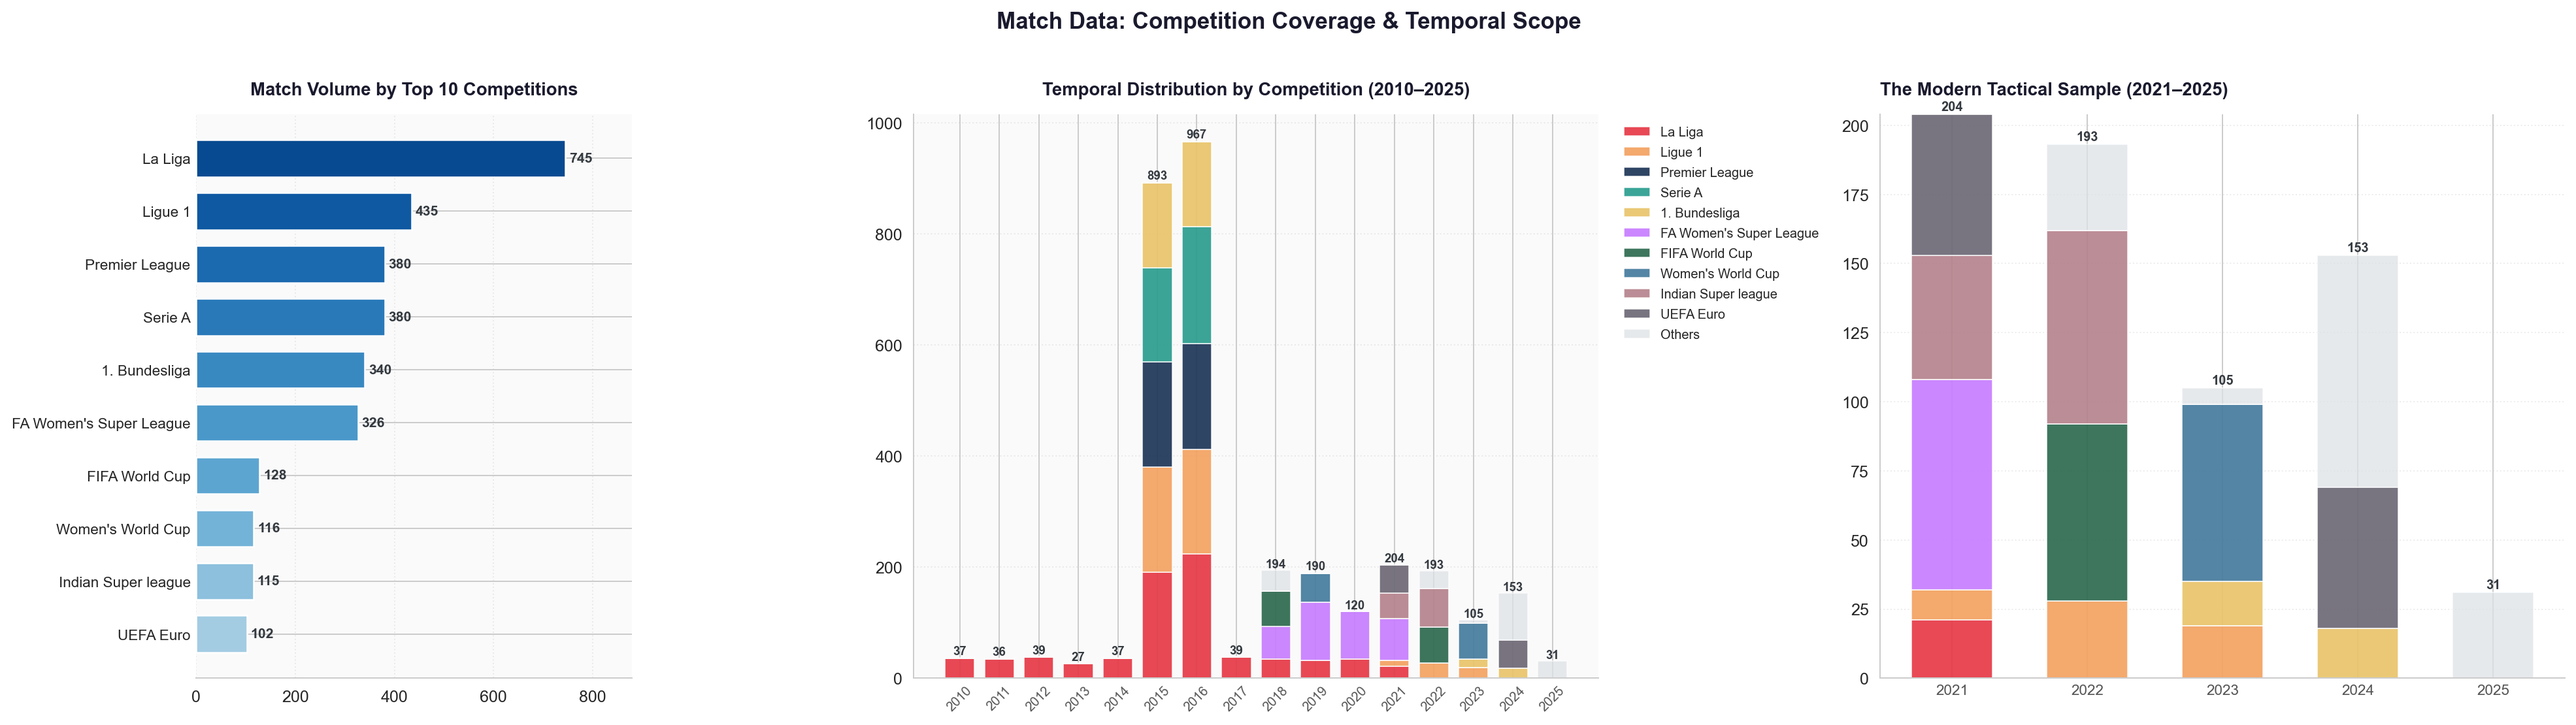
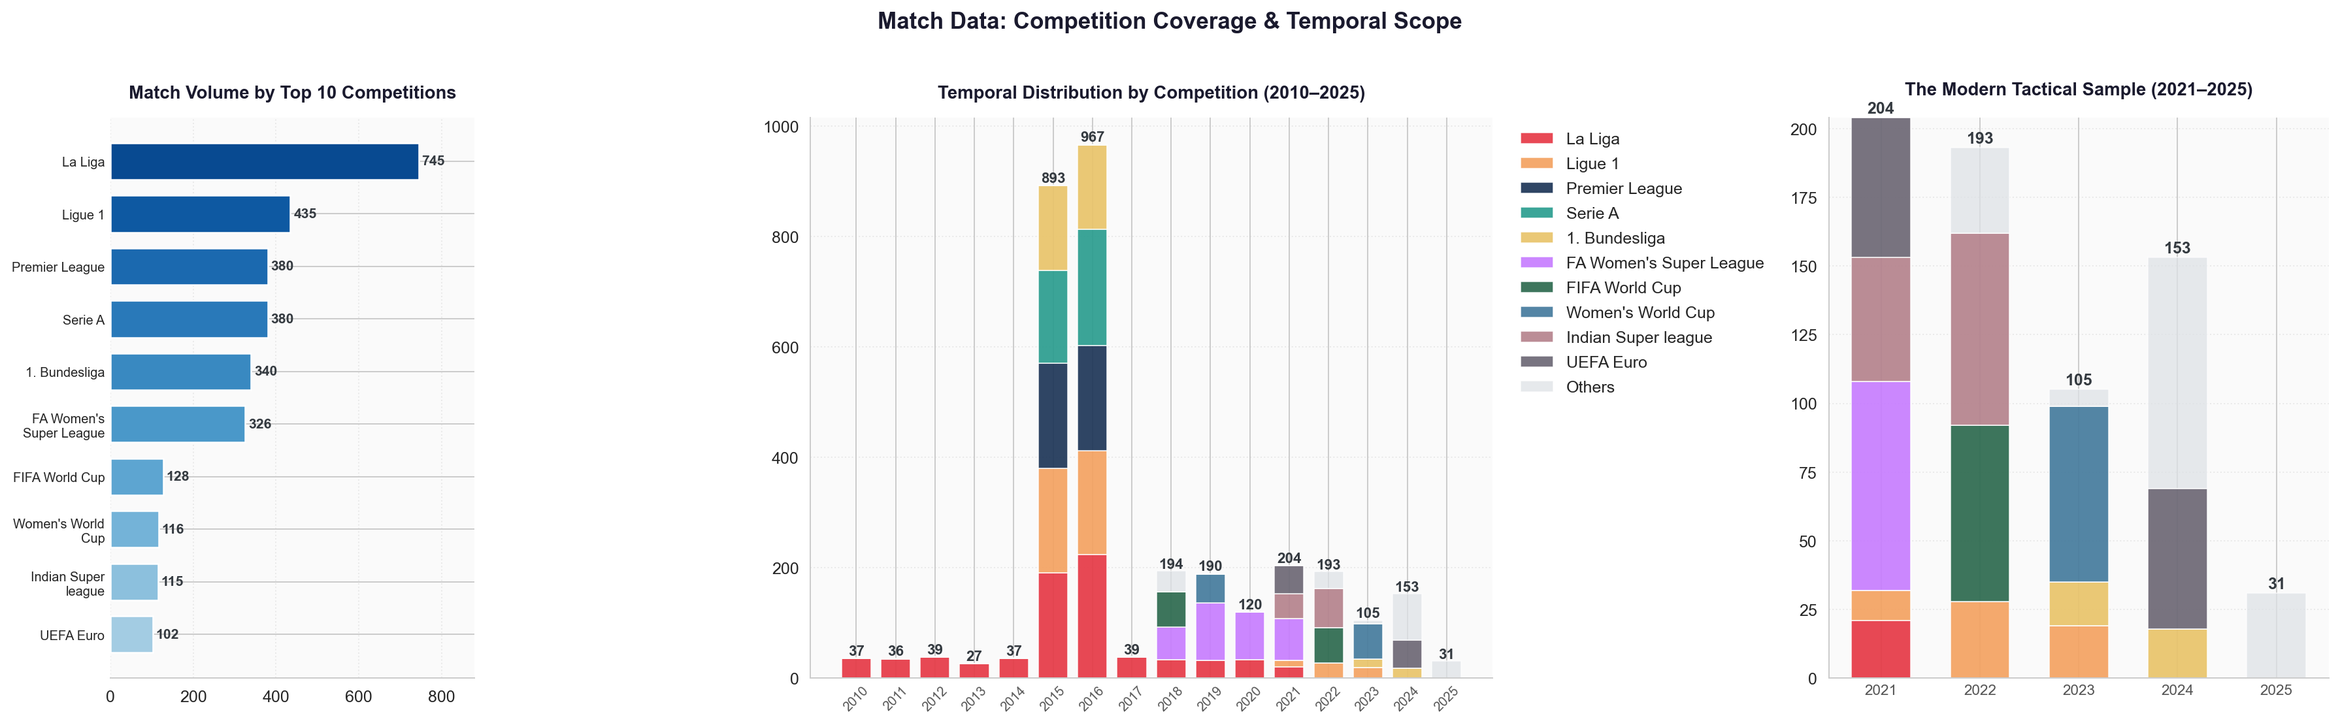
adding case study for lineups

diff --git a/eda/analysis/eda_functions.py b/eda/analysis/eda_functions.py
@@ -17,6 +17,7 @@ from IPython.display import clear_output
 
 from IPython.display import display
 import pandas as pd
+import matplotlib.gridspec as gridspec
 
 # Set plotting style
 sns.set_style('whitegrid')
@@ -192,12 +193,6 @@ def plot_matches_market_overview(statsbomb_dir: Path, figsize=(15, 5)) -> None:
     plt.tight_layout()
     plt.show()
 
-import polars as pl
-import numpy as np
-import matplotlib.pyplot as plt
-from pathlib import Path
-
-
 # Sophisticated palette — perceptually distinct, matched to known competition names
 COMP_PALETTE = {
     'La Liga':                  '#e63946',
@@ -227,7 +222,7 @@ def gradient_barh(ax, y, width, height, cmap_name='Blues'):
         )
 
 
-def plot_matches_market_overview(statsbomb_dir: Path, figsize=(16, 6)) -> None:
+def plot_matches_market_overview(statsbomb_dir: Path, figsize=(20, 6)) -> None:
     """
     Matches EDA — two-panel overview.
     Left:  Total match count per competition (gradient bars).
@@ -261,10 +256,25 @@ def plot_matches_market_overview(statsbomb_dir: Path, figsize=(16, 6)) -> None:
     all_years   = list(range(2010, 2026))
 
     # ── Figure ────────────────────────────────────────────────────────────────
-    fig, (ax1, ax2, ax3) = plt.subplots(
-        1, 3, figsize=(22, 6),
-        gridspec_kw={'width_ratios': [0.7, 1.1, 1.1]},
-    )
+    fig = plt.figure(figsize=figsize)
+    # Define a 2x2 grid, but we'll merge cells
+    gs = gridspec.GridSpec(1, 3, width_ratios=[0.8, 1.5, 1.1])
+    
+    ax1 = fig.add_subplot(gs[0, 0])
+    ax2 = fig.add_subplot(gs[0, 1])
+    ax3 = fig.add_subplot(gs[0, 2])
+
+    # THE CRITICAL FIX: 
+    # Force the layout to ignore the long names and just 'clip' them if necessary
+    # This pulls the second chart left aggressively
+    plt.subplots_adjust(left=0.15, wspace=0.1)
+    plt.subplots_adjust(wspace=0.05) 
+
+    fig.patch.set_facecolor('#ffffff')
+    for ax in (ax1, ax2, ax3): # Applied to all three for consistency
+        ax.set_facecolor('#fafafa')
+
+        
     fig.patch.set_facecolor('#ffffff')
     for ax in (ax1, ax2):
         ax.set_facecolor('#fafafa')
@@ -326,7 +336,7 @@ def plot_matches_market_overview(statsbomb_dir: Path, figsize=(16, 6)) -> None:
     for year_idx, (total, other) in enumerate(zip(bottoms + np.array(other_counts), other_counts)):
         if total > 0:
             ax2.text(all_years[year_idx], total + 0.5, str(int(total)),
-                    ha='center', va='bottom', fontsize=7.5,
+                    ha='center', va='bottom', fontsize=9,
                     color='#343a40', fontweight='bold')
             
     ax2.bar(
@@ -343,7 +353,7 @@ def plot_matches_market_overview(statsbomb_dir: Path, figsize=(16, 6)) -> None:
     ax2.tick_params(axis='x', length=0)
     ax2.legend(
         bbox_to_anchor=(1.02, 1), loc='upper left',
-        fontsize=8, frameon=False, labelspacing=0.6,
+        fontsize=10, frameon=False, labelspacing=0.6,
     )
     ax2.grid(axis='y', linestyle=':', alpha=0.35)
 
@@ -390,11 +400,15 @@ def plot_matches_market_overview(statsbomb_dir: Path, figsize=(16, 6)) -> None:
     for year_idx, total in enumerate(bottoms3 + np.array(other_counts3)):
         if total > 0:
             ax3.text(zoom_years[year_idx], total + 0.5, str(int(total)),
-                    ha='center', va='bottom', fontsize=8,
+                    ha='center', va='bottom', fontsize=10,
                     color='#343a40', fontweight='bold')
+            
+    import textwrap
+    wrapped_names = [textwrap.fill(name, 15) for name in names] # Wrap at 15 chars
+    ax1.set_yticklabels(wrapped_names, fontsize=8)
 
     ax3.set_title('The Modern Tactical Sample (2021–2025)',
-                loc='left', fontsize=11, fontweight='bold', color='#1a1a2e', pad=12)
+                loc='center', fontsize=11, fontweight='bold', color='#1a1a2e', pad=14)
     ax3.set_xticks(zoom_years)
     ax3.set_xticklabels(zoom_years, fontsize=9, color='#555')
     ax3.spines[['top', 'right']].set_visible(False)
@@ -478,9 +492,7 @@ def plot_temporal_coverage_stacked(statsbomb_dir: Path, figsize=(16, 7)) -> None
     plt.tight_layout()
     plt.show()
 
-import polars as pl
-import matplotlib.pyplot as plt
-from pathlib import Path
+
 
 def plot_event_type_distribution(statsbomb_dir: Path, figsize=(10, 5)) -> None:
     """Fast, clean distribution chart with Emerald gradient, counts, and clear % labels."""
@@ -619,9 +631,106 @@ def plot_player_participation(statsbomb_dir: Path, figsize=(14, 7)) -> None:
     plt.tight_layout()
     plt.show()
 
-import polars as pl
-import matplotlib.pyplot as plt
-from pathlib import Path
+
+def plot_player_versatility_gradient(statsbomb_dir: Path, player_name: str):
+    # 1. The "Nerdy" Tiered Palette
+    POSITION_COLOURS = {
+        # --- THE DEFENSIVE BLOCK (Deep Forest Greens) ---
+        'Center Back': '#132a13', 'Left Center Back': '#31572c', 'Right Center Back': '#4f772d',
+        'Left Back': '#90a955', 'Right Back': '#ecf39e', 
+        'Left Wing Back': '#95d5b2', 'Right Wing Back': '#b7e4c7', 
+        'Goalkeeper': '#6c757d',
+
+        # --- THE CONTROLLERS / '6' (Deep Midnight Purples) ---
+        # Darker and more "Purple-Navy" to separate from the blues
+        'Center Defensive Midfield': '#240046', 
+        'Left Defensive Midfield': '#3c096c', 
+        'Right Defensive Midfield': '#5a189a',
+
+        # --- THE ENGINES / '8' (Vibrant Cyan/Electric Blues) ---
+        # Shifted away from purple tones toward "Bright Water" tones
+        'Center Midfield': '#0077b6', 
+        'Left Center Midfield': '#00b4d8', 
+        'Right Center Midfield': '#48cae4',
+        'Left Midfield': '#90e0ef', 
+        'Right Midfield': '#ade8f4',
+
+        # --- THE CREATORS / '10' (Electric Magentas) ---
+        'Center Attacking Midfield': '#ff006e', 
+        'Left Attacking Midfield': '#ff70a6', 
+        'Right Attacking Midfield': '#ff97b7',
+
+        # --- THE FINISHERS (Hot Oranges/Reds) ---
+        'Center Forward': '#6a040f', 'Left Center Forward': '#9d0208', 'Right Center Forward': '#d00000',
+        'Secondary Striker': '#dc2f02', 'Left Wing': '#e85d04', 'Right Wing': '#f48c06',
+        
+        'nan': '#adb5bd'
+    }
+
+    # 2. Data Loading (read_parquet for DataFrame)
+    lineups = pl.read_parquet(statsbomb_dir / "lineups.parquet")
+    matches = pl.read_parquet(statsbomb_dir / "matches.parquet")
+
+    df = lineups.join(matches, on="match_id").filter(
+        pl.col("player_name").str.to_lowercase().str.contains(player_name.lower())
+    )
+
+    if df.is_empty():
+        return print(f"No data for {player_name}")
+
+    def parse_time(s):
+        try:
+            p = s.split(':')
+            return float(p[0]) + float(p[1])/60.0
+        except: return 90.0
+
+    # 3. Processing
+    res = (
+        df.with_columns([
+            pl.col("from_time").map_elements(parse_time, return_dtype=pl.Float64).alias("start"),
+            pl.col("to_time").map_elements(parse_time, return_dtype=pl.Float64).alias("end"),
+            pl.col("position_name").cast(pl.Utf8).str.strip_chars().fill_null("nan")
+        ])
+        .with_columns((pl.col("end") - pl.col("start")).alias("mins"))
+        .group_by(["season_name", "position_name"])
+        .agg(pl.col("mins").sum())
+        .pivot(index="season_name", on="position_name", values="mins")
+        .fill_null(0)
+        .sort("season_name")
+    )
+
+    # 4. Plotting
+    seasons = res["season_name"].to_list()
+    # Only include positions that have > 0 minutes total
+    positions = [pos for pos in res.columns if pos != "season_name" and res[pos].sum() > 0]
+    
+    # Sort positions based on their order in POSITION_COLOURS (Defense to Attack)
+    # This makes the legend look logically ordered
+    order = list(POSITION_COLOURS.keys())
+    positions.sort(key=lambda x: order.index(x) if x in order else 999)
+
+    fig, ax = plt.subplots(figsize=(10, 7))
+    bottom = np.zeros(len(seasons))
+    
+    for pos in positions:
+        vals = np.array(res[pos].to_list())
+        color = POSITION_COLOURS.get(pos, '#333333') 
+        ax.bar(seasons, vals, bottom=bottom, label=pos, color=color, edgecolor='white', alpha=0.9, width=0.7)
+        bottom += vals
+
+    # 5. Presentation Styling
+    ax.set_ylim(0, max(bottom) * 1.1) 
+    ax.set_title(f"Tactical Profile Evolution: {player_name}", fontsize=14, fontweight='bold', loc='center', pad=25)
+    ax.set_ylabel("Minutes Played", fontsize=12)
+    
+    plt.xticks(rotation=45, ha='right')
+    
+    # CLEAN LEGEND: Only shows roles played, organized by tier
+    ax.legend(title="Tactical Roles (Played)", bbox_to_anchor=(1.02, 1), loc='upper left', frameon=False, fontsize=9)
+    
+    plt.grid(axis='y', linestyle='--', alpha=0.3)
+    plt.tight_layout()
+    plt.show()
 
 def plot_360_coverage_analysis(statsbomb_dir: Path, figsize=(10, 4.5)) -> None:
     """Efficiently loads and plots 360° tracking data coverage."""

diff --git a/eda/templates/eda_starter_template.py b/eda/templates/eda_starter_template.py
@@ -336,8 +336,37 @@ def analyze_sb_events() -> dict[str, Any]:
         "passes": pass_stats["total"][0],
     }
 
-
 def analyze_sb_lineups() -> dict[str, Any]:
+    header("STATSBOMB: LINEUPS")
+    lf = pl.scan_parquet(STATSBOMB_DIR / "lineups.parquet")
+
+    stats = lf.select(
+        [
+            pl.len().alias("total"),
+            pl.col("match_id").n_unique().alias("matches"),
+            pl.col("player_name").n_unique().alias("players"),
+        ]
+    ).collect()
+
+    print(
+        f"Records: {stats['total'][0]:,} | Matches: {stats['matches'][0]:,} | Players: {stats['players'][0]:,}"
+    )
+
+    sub("Position Distribution")
+    dist(lf, "position_name")
+
+    cards = (
+        lf.filter(pl.col("card_type").is_not_null()).select(pl.len()).collect()[0, 0]
+    )
+    print(f"\nTotal cards: {cards:,}")
+
+    return {
+        "records": stats["total"][0],
+        "players": stats["players"][0],
+        "cards": cards,
+    }
+
+def analyze_sb_lineups_adv() -> dict[str, Any]:
     header("STATSBOMB: LINEUPS")
     lf = pl.scan_parquet(STATSBOMB_DIR / "lineups.parquet")
 
@@ -420,6 +449,19 @@ def analyze_sb_lineups() -> dict[str, Any]:
     print("\nTop Carded Players:")
     print(top_carded)
 
+    # 6. Versatility Spotlight: The "Mac Allister" Case
+    sub("Tactical Versatility Spotlight")
+    # Finding the "Ultimate Versatility Kings"
+    kings = (
+        lf.group_by("player_name")
+        .agg(pl.col("position_name").n_unique().alias("unique_positions"))
+        .sort("unique_positions", descending=True)
+        .head(5)
+        .collect()
+    )
+    print("\nTop Versatility Kings (Unique Positions Played):")
+    print(kings)
+
     return {
         "records": total_rec,
         "played": played_count,
@@ -450,14 +492,34 @@ def analyze_sb_360() -> dict[str, Any]:
 
     return {"records": stats["total"][0], "events": stats["events"][0]}
 
-
 def analyze_sb_reference() -> dict[str, Any]:
+    header("STATSBOMB: REFERENCE")
+    lf = pl.scan_parquet(STATSBOMB_DIR / "reference.parquet")
+
+    total = lf.select(pl.len()).collect()[0, 0]
+    print(f"Total records: {total:,}")
+
+    sub("Entity Types")
+    dist(lf, "table_name")
+
+    return {"records": total}
+
+def analyze_sb_reference_adv() -> dict[str, Any]:
     header("STATSBOMB: REFERENCE")
     lf = pl.scan_parquet(STATSBOMB_DIR / "reference.parquet")
 
     # 1. Entity Distribution (Now at the top)
     sub("Entity Distribution")
     dist(lf, "table_name")
+
+    # 2. Total Counts & ID Overlap
+    stats = lf.select([
+        pl.len().alias("total"),
+        pl.col("id").n_unique().alias("unique_ids")
+    ]).collect()
+    total, unique_ids = stats['total'][0], stats['unique_ids'][0]
+    print(f"\nTotal records: {total:,} | Unique IDs: {unique_ids:,}")
+    print(f"Note: {total - unique_ids} ID collisions occur across different categories.")
 
     # 3. Name Collisions (Different IDs, Same Name)
     sub("Entity Name Collisions")
